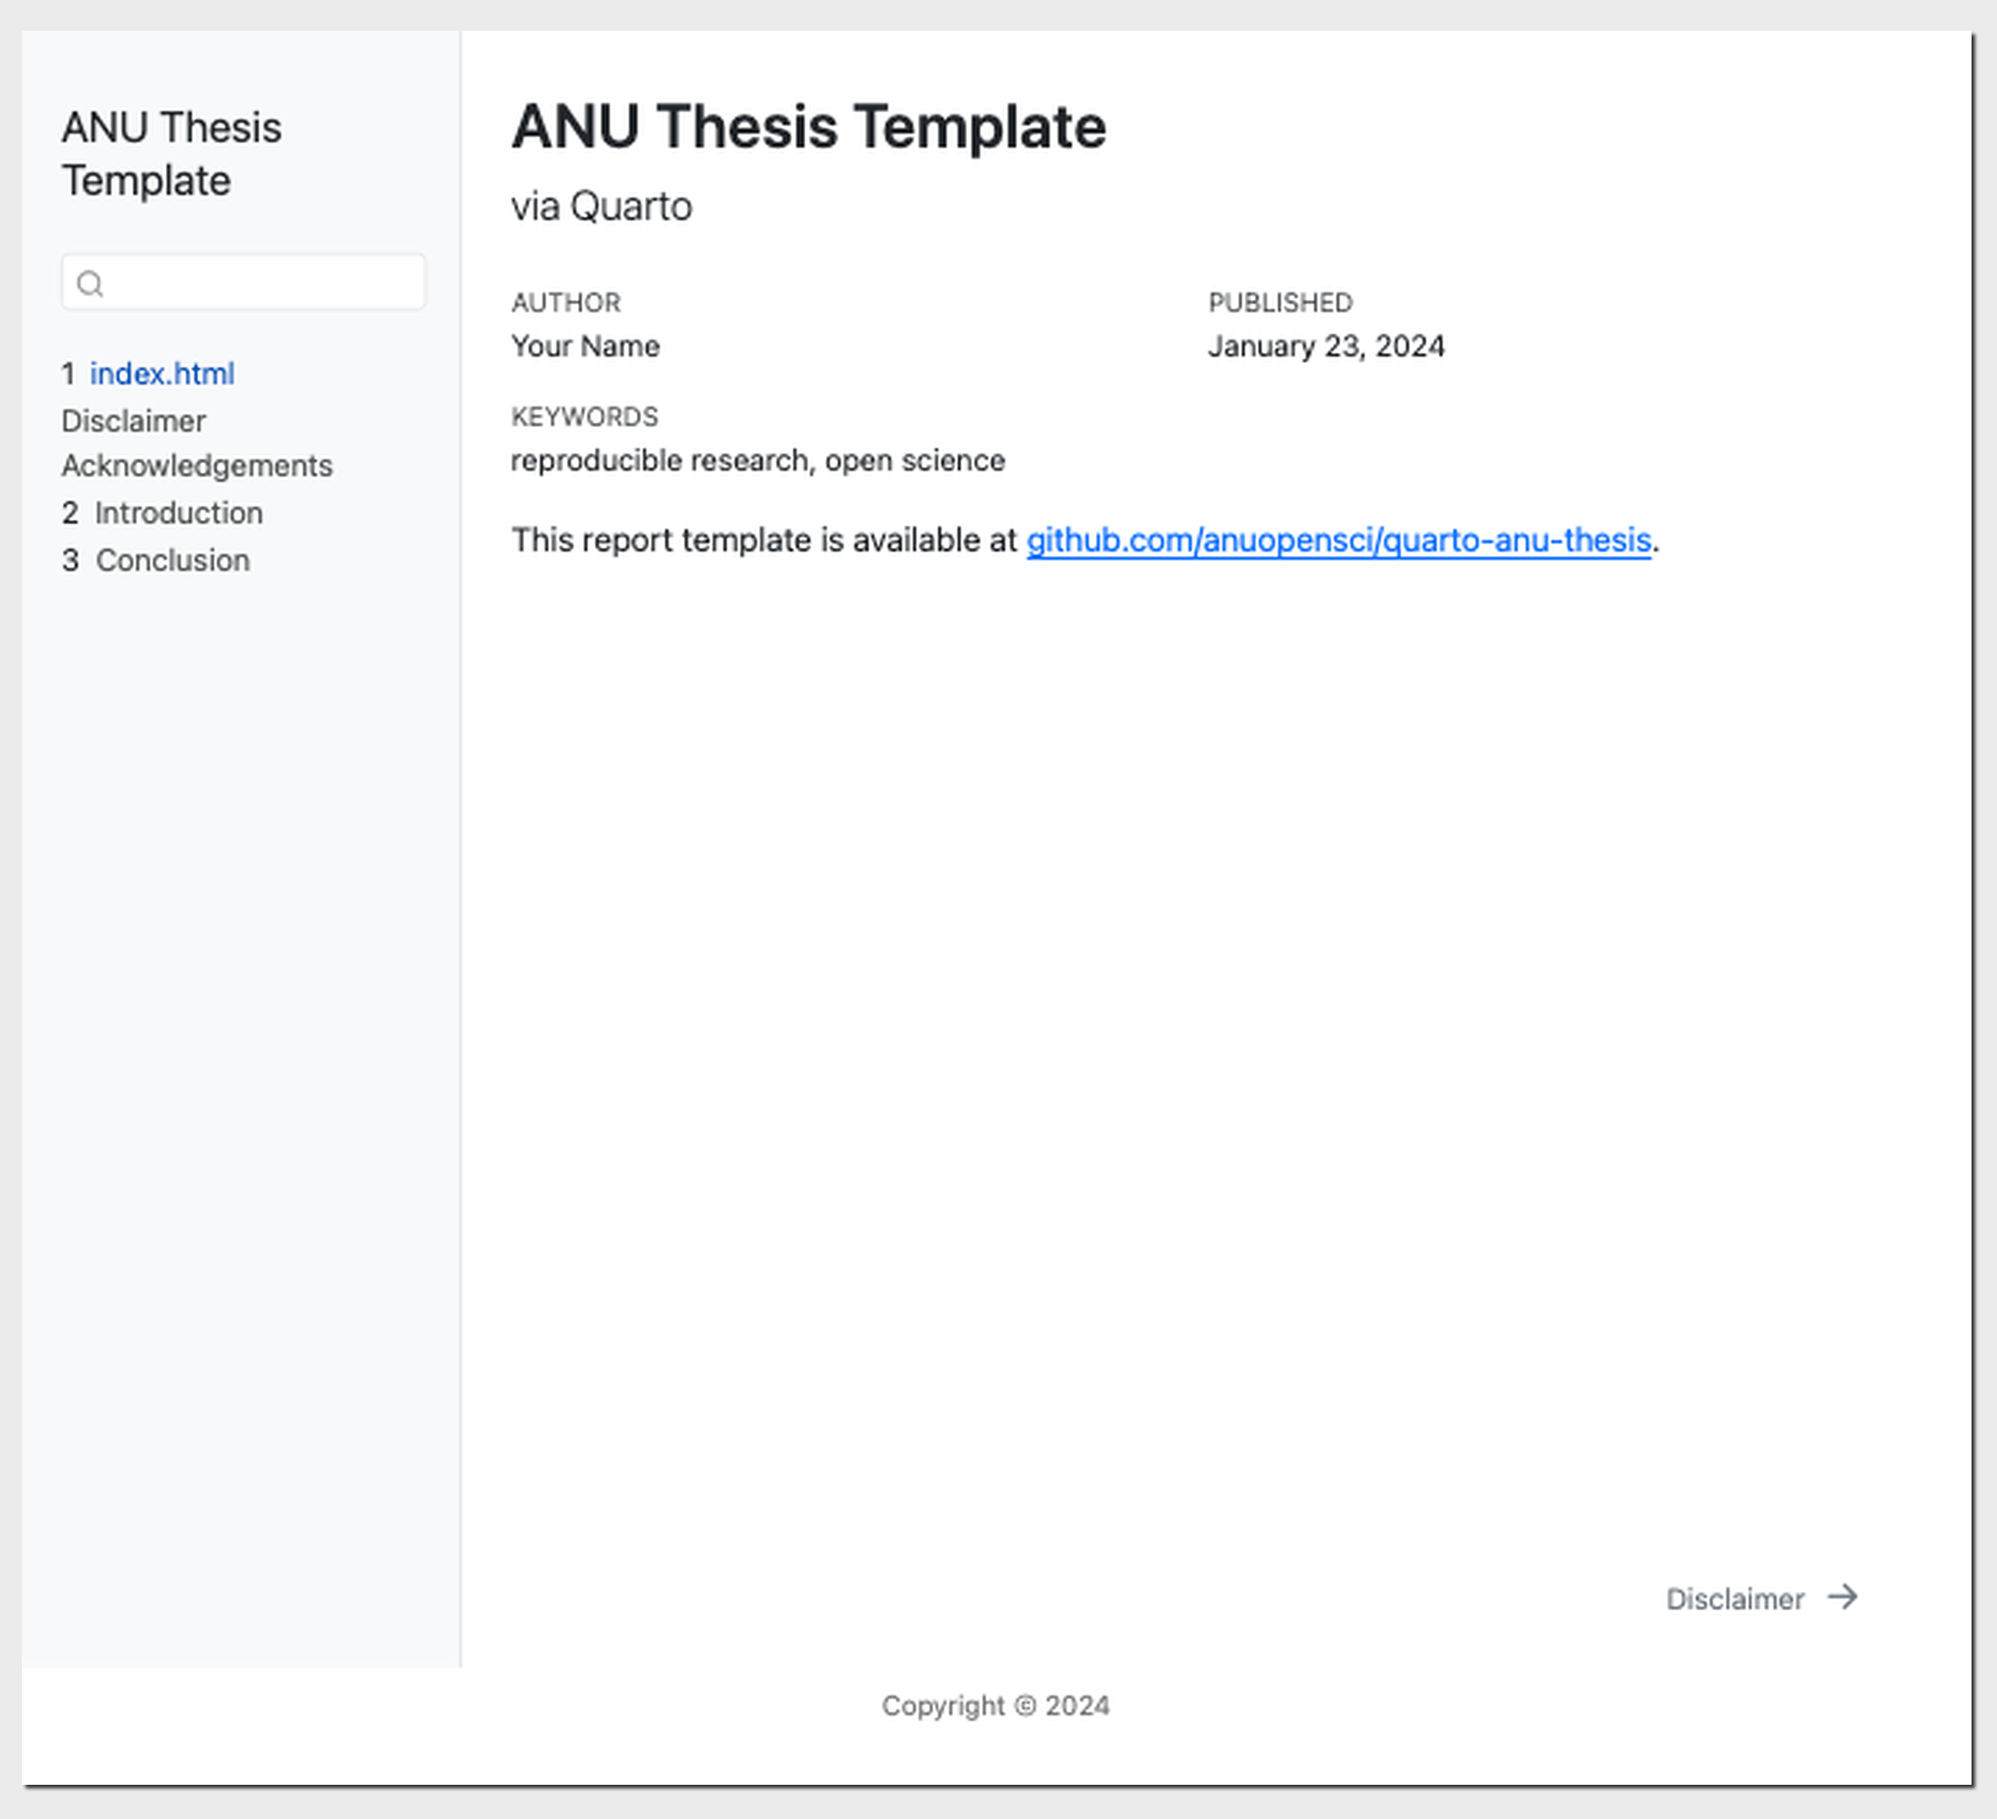
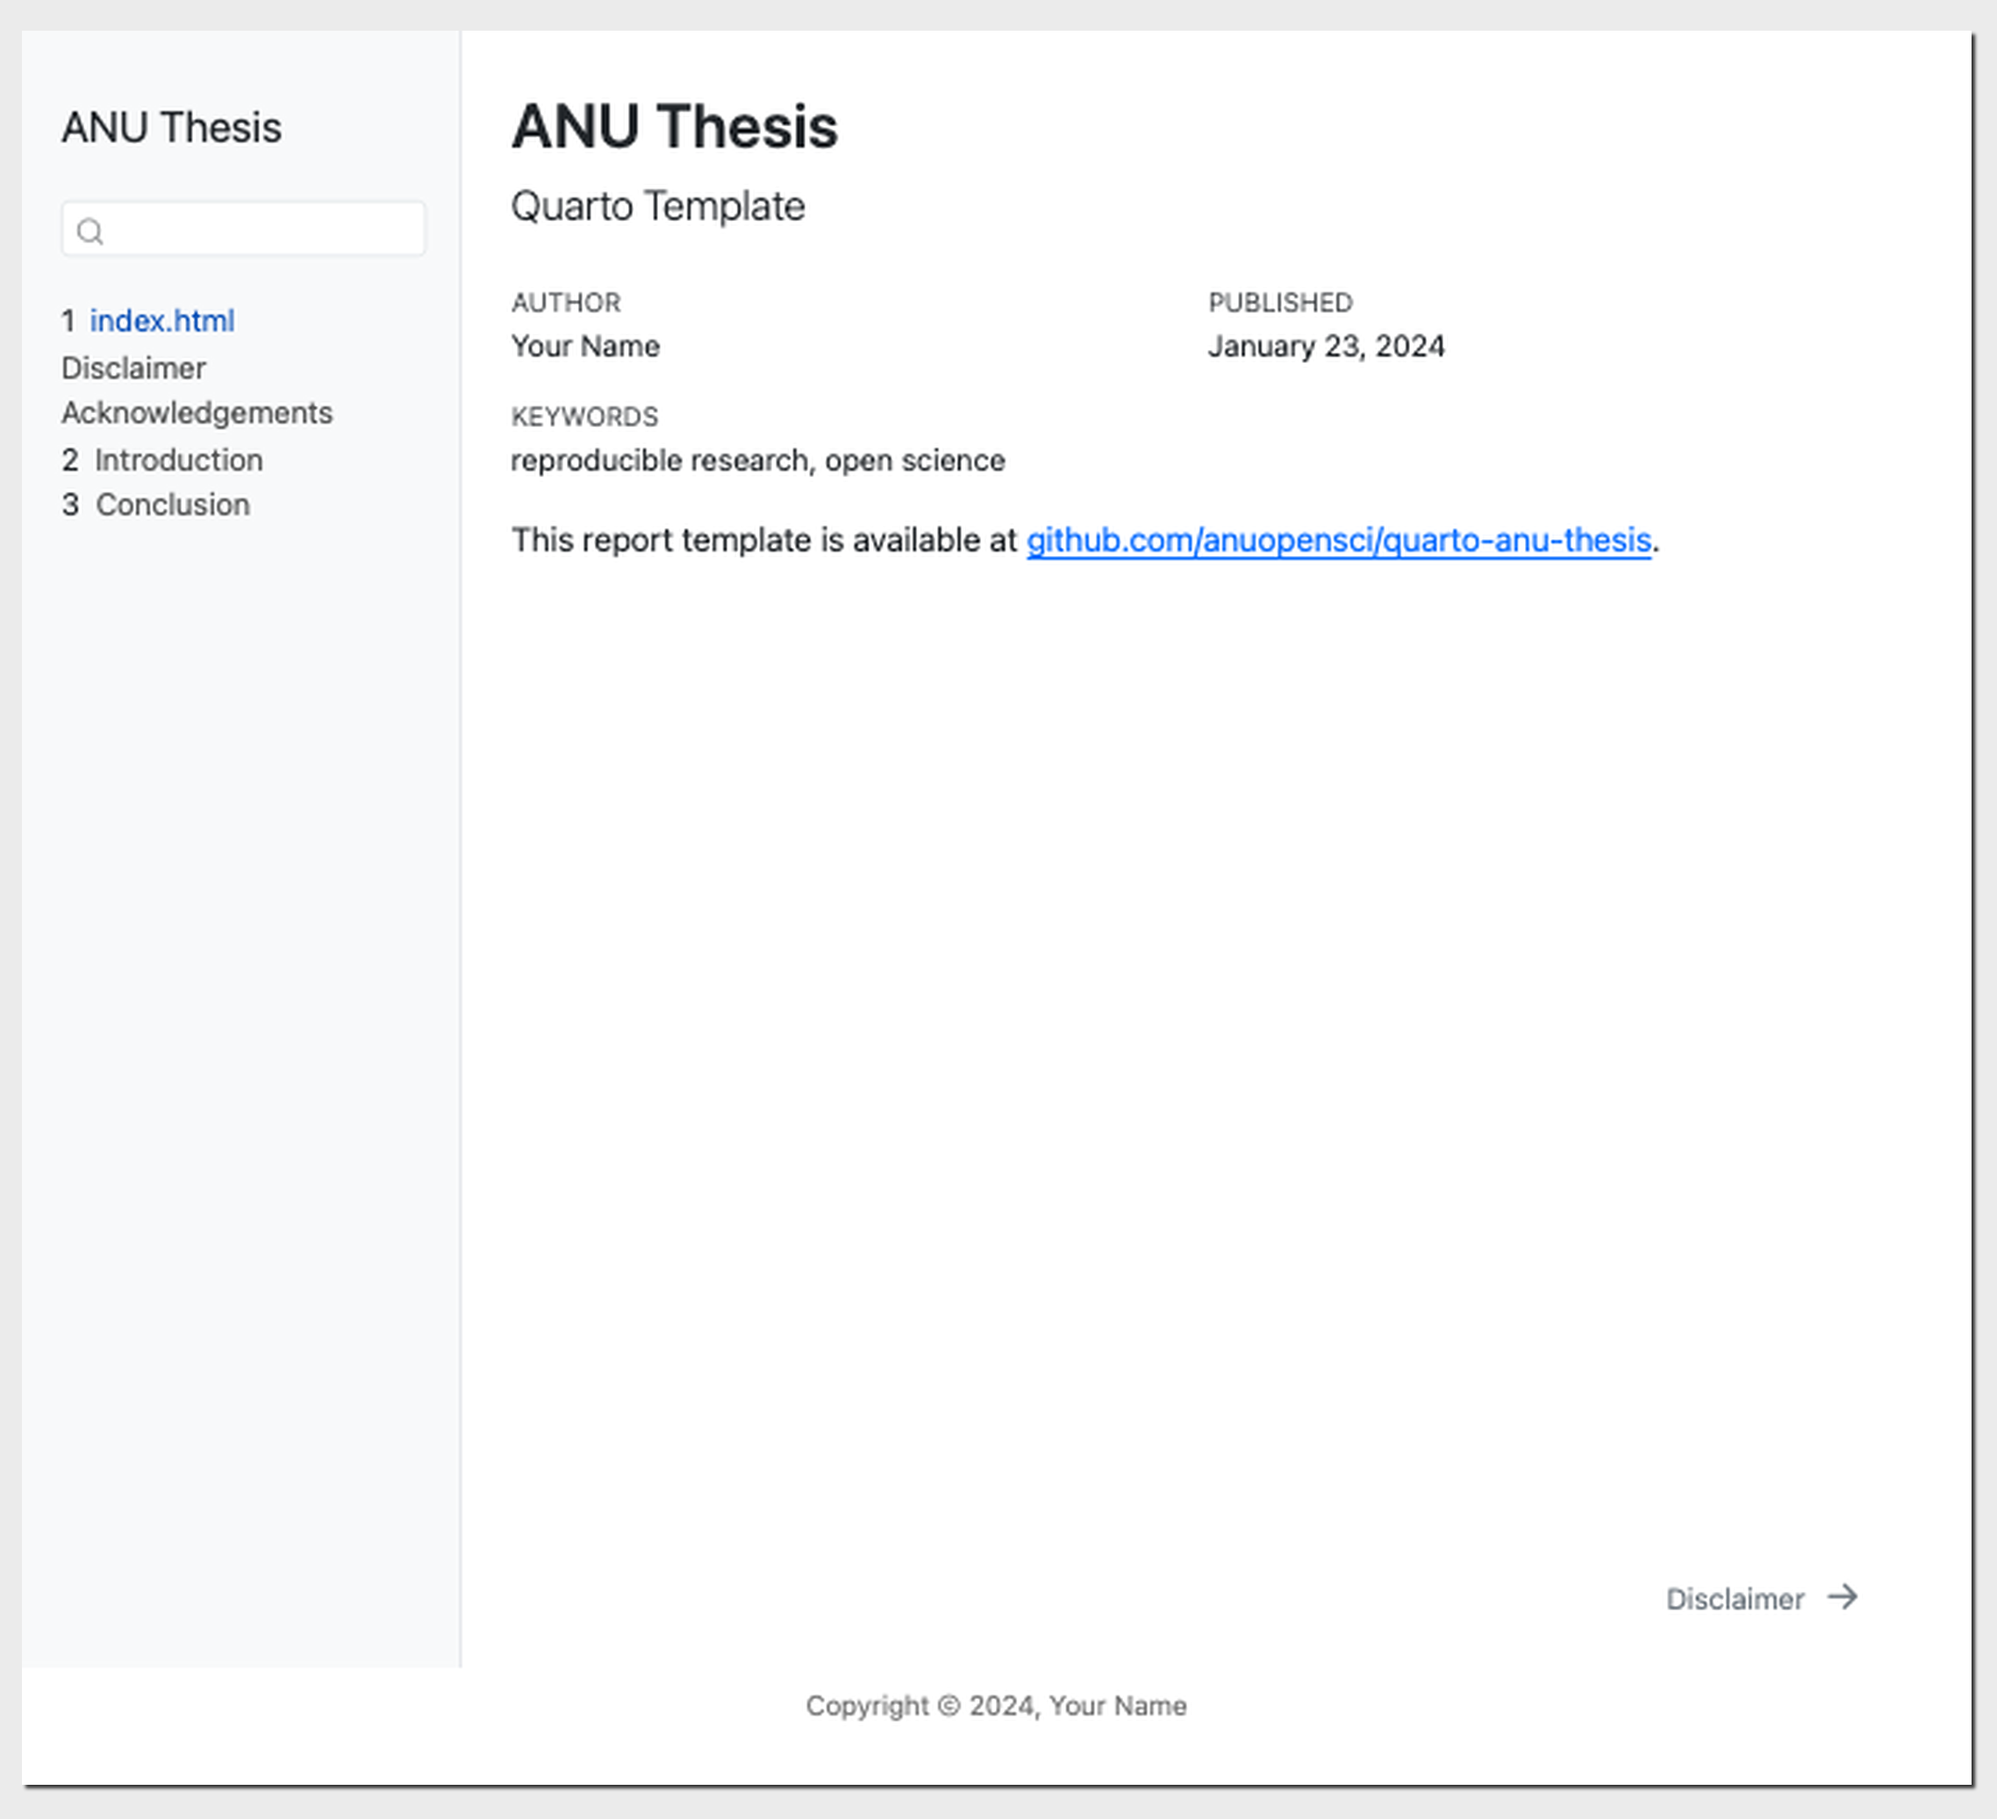
update README

diff --git a/docs/index.html b/docs/index.html
@@ -10,7 +10,7 @@
 <meta name="dcterms.date" content="2024-01-23">
 <meta name="keywords" content="reproducible research, open science">
 
-<title>ANU Thesis Template</title>
+<title>ANU Thesis</title>
 <style>
 code{white-space: pre-wrap;}
 span.smallcaps{font-variant: small-caps;}
@@ -98,7 +98,7 @@ ul.task-list li input[type="checkbox"] {
   <nav id="quarto-sidebar" class="sidebar collapse collapse-horizontal quarto-sidebar-collapse-item sidebar-navigation docked overflow-auto">
     <div class="pt-lg-2 mt-2 text-left sidebar-header">
     <div class="sidebar-title mb-0 py-0">
-      <a href="./">ANU Thesis Template</a> 
+      <a href="./">ANU Thesis</a> 
     </div>
       </div>
         <div class="mt-2 flex-shrink-0 align-items-center">
@@ -149,8 +149,8 @@ ul.task-list li input[type="checkbox"] {
 
 <header id="title-block-header" class="quarto-title-block default">
 <div class="quarto-title">
-<h1 class="title">ANU Thesis Template</h1>
-<p class="subtitle lead">via Quarto</p>
+<h1 class="title">ANU Thesis</h1>
+<p class="subtitle lead">Quarto Template</p>
 </div>
 
 
@@ -593,7 +593,7 @@ window.document.addEventListener("DOMContentLoaded", function (event) {
       &nbsp;
     </div>   
     <div class="nav-footer-center">
-<p>Copyright © 2024</p>
+<p>Copyright © 2024, Your Name</p>
 </div>
     <div class="nav-footer-right">
       &nbsp;

diff --git a/docs/intro.html b/docs/intro.html
@@ -10,7 +10,7 @@
 <meta name="dcterms.date" content="2024-01-23">
 <meta name="keywords" content="reproducible research, open science">
 
-<title>ANU Thesis Template - 2&nbsp; Introduction</title>
+<title>ANU Thesis - 2&nbsp; Introduction</title>
 <style>
 code{white-space: pre-wrap;}
 span.smallcaps{font-variant: small-caps;}
@@ -99,7 +99,7 @@ ul.task-list li input[type="checkbox"] {
   <nav id="quarto-sidebar" class="sidebar collapse collapse-horizontal quarto-sidebar-collapse-item sidebar-navigation docked overflow-auto">
     <div class="pt-lg-2 mt-2 text-left sidebar-header">
     <div class="sidebar-title mb-0 py-0">
-      <a href="./">ANU Thesis Template</a> 
+      <a href="./">ANU Thesis</a> 
     </div>
       </div>
         <div class="mt-2 flex-shrink-0 align-items-center">
@@ -598,7 +598,7 @@ window.document.addEventListener("DOMContentLoaded", function (event) {
       &nbsp;
     </div>   
     <div class="nav-footer-center">
-<p>Copyright © 2024</p>
+<p>Copyright © 2024, Your Name</p>
 </div>
     <div class="nav-footer-right">
       &nbsp;

diff --git a/docs/conclusion.html b/docs/conclusion.html
@@ -10,7 +10,7 @@
 <meta name="dcterms.date" content="2024-01-23">
 <meta name="keywords" content="reproducible research, open science">
 
-<title>ANU Thesis Template - 3&nbsp; Conclusion</title>
+<title>ANU Thesis - 3&nbsp; Conclusion</title>
 <style>
 code{white-space: pre-wrap;}
 span.smallcaps{font-variant: small-caps;}
@@ -98,7 +98,7 @@ ul.task-list li input[type="checkbox"] {
   <nav id="quarto-sidebar" class="sidebar collapse collapse-horizontal quarto-sidebar-collapse-item sidebar-navigation docked overflow-auto">
     <div class="pt-lg-2 mt-2 text-left sidebar-header">
     <div class="sidebar-title mb-0 py-0">
-      <a href="./">ANU Thesis Template</a> 
+      <a href="./">ANU Thesis</a> 
     </div>
       </div>
         <div class="mt-2 flex-shrink-0 align-items-center">
@@ -594,7 +594,7 @@ window.document.addEventListener("DOMContentLoaded", function (event) {
       &nbsp;
     </div>   
     <div class="nav-footer-center">
-<p>Copyright © 2024</p>
+<p>Copyright © 2024, Your Name</p>
 </div>
     <div class="nav-footer-right">
       &nbsp;

diff --git a/docs/acknowledgements.html b/docs/acknowledgements.html
@@ -10,7 +10,7 @@
 <meta name="dcterms.date" content="2024-01-23">
 <meta name="keywords" content="reproducible research, open science">
 
-<title>ANU Thesis Template - Acknowledgements</title>
+<title>ANU Thesis - Acknowledgements</title>
 <style>
 code{white-space: pre-wrap;}
 span.smallcaps{font-variant: small-caps;}
@@ -99,7 +99,7 @@ ul.task-list li input[type="checkbox"] {
   <nav id="quarto-sidebar" class="sidebar collapse collapse-horizontal quarto-sidebar-collapse-item sidebar-navigation docked overflow-auto">
     <div class="pt-lg-2 mt-2 text-left sidebar-header">
     <div class="sidebar-title mb-0 py-0">
-      <a href="./">ANU Thesis Template</a> 
+      <a href="./">ANU Thesis</a> 
     </div>
       </div>
         <div class="mt-2 flex-shrink-0 align-items-center">
@@ -598,7 +598,7 @@ window.document.addEventListener("DOMContentLoaded", function (event) {
       &nbsp;
     </div>   
     <div class="nav-footer-center">
-<p>Copyright © 2024</p>
+<p>Copyright © 2024, Your Name</p>
 </div>
     <div class="nav-footer-right">
       &nbsp;

diff --git a/docs/disclaimer.html b/docs/disclaimer.html
@@ -10,7 +10,7 @@
 <meta name="dcterms.date" content="2024-01-23">
 <meta name="keywords" content="reproducible research, open science">
 
-<title>ANU Thesis Template - Disclaimer</title>
+<title>ANU Thesis - Disclaimer</title>
 <style>
 code{white-space: pre-wrap;}
 span.smallcaps{font-variant: small-caps;}
@@ -99,7 +99,7 @@ ul.task-list li input[type="checkbox"] {
   <nav id="quarto-sidebar" class="sidebar collapse collapse-horizontal quarto-sidebar-collapse-item sidebar-navigation docked overflow-auto">
     <div class="pt-lg-2 mt-2 text-left sidebar-header">
     <div class="sidebar-title mb-0 py-0">
-      <a href="./">ANU Thesis Template</a> 
+      <a href="./">ANU Thesis</a> 
     </div>
       </div>
         <div class="mt-2 flex-shrink-0 align-items-center">
@@ -608,7 +608,7 @@ window.document.addEventListener("DOMContentLoaded", function (event) {
       &nbsp;
     </div>   
     <div class="nav-footer-center">
-<p>Copyright © 2024</p>
+<p>Copyright © 2024, Your Name</p>
 </div>
     <div class="nav-footer-right">
       &nbsp;

diff --git a/README.md b/README.md
@@ -8,16 +8,21 @@ This repository contains the Quarto template for ANU thesis.
 
 ***Work-in-Progress***
 
-To use this template, either fork this repository or download it.
+To use this template, either click on the “use this template” button on
+the top right corner or download it. You can also fork the repository
+but it copies the entire git history of the repository, which is only
+necessary for those wishing to contribute to the template.
 
 ## Format Options
 
-There are two formats available: pdf and html.
+This template outputs both the html and pdf version of the thesis. You
+can choose to render only one of them by commenting out the `format`
+option you don’t want in the `_quarto.yml` file.
 
-### `anu-thesis-html`
+### HTML output
 
-[![](docs/example-html.png)]()
+[![](docs/example-html.png)](https://anuopensci.github.io/quarto-anu-thesis/)
 
-### `anu-thesis-pdf`
+### PDF output
 
 [![](docs/example-pdf.png)](docs/thesis.pdf)
